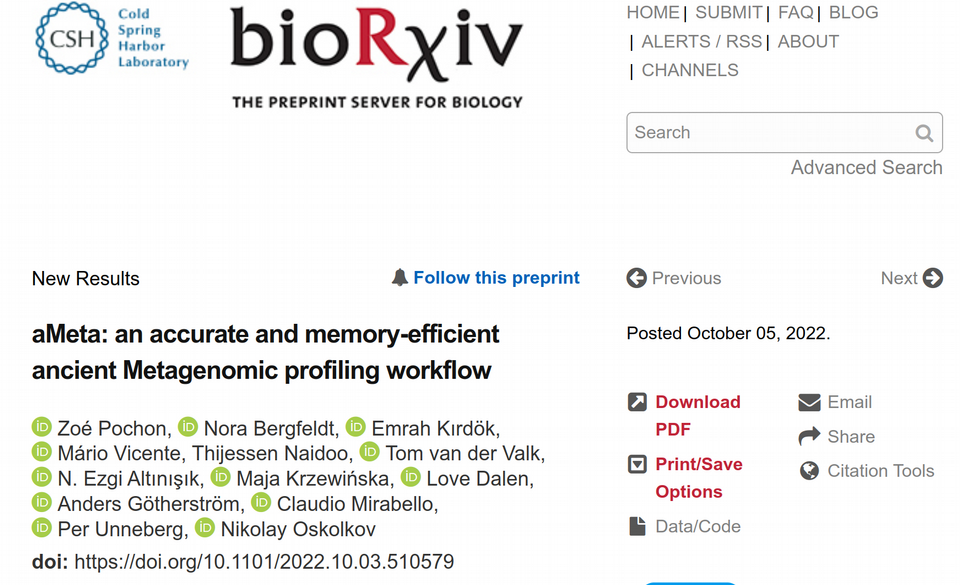
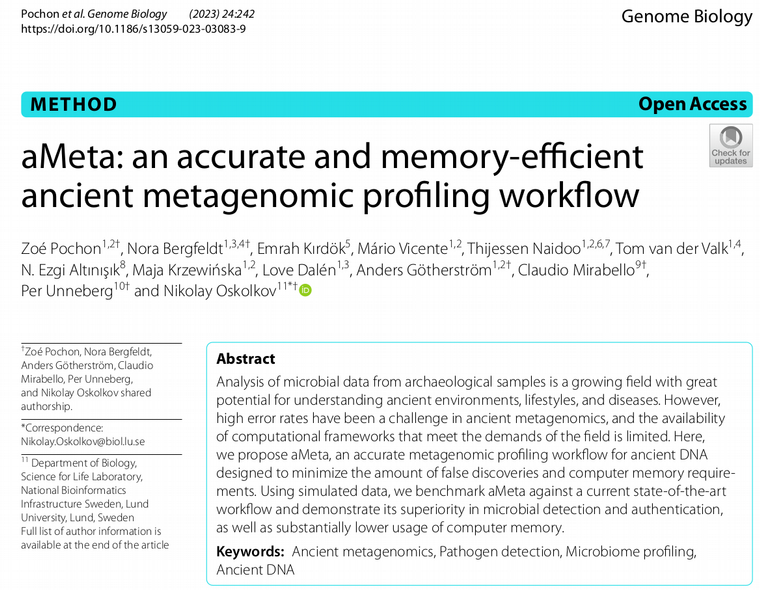
changed aMeta image

diff --git a/exercises.md b/exercises.md
@@ -40,8 +40,19 @@ git pull
 
 ## Getting the raw data
 
-Copy the raw sequencing data to your own `01_DATA` folder.
-Also copy the file `SAMPLES.txt`, which will be useful for running `for loop` and etc.
+Here, we will use 10 simulated with [gargammel](https://academic.oup.com/bioinformatics/article/33/4/577/2608651) ancient metagenomic samples from Pochon et al. 2023. The simulated data can be accessed via [https://doi.org/10.17044/scilifelab.21261405](https://doi.org/10.17044/scilifelab.21261405).
+
+![](images/aMeta.png)
+
+To download the simulated ancient metagenomic data you can use the following command line:
+
+```bash
+# DO NOT RUN THIS (ALREADY DONE)
+wget https://figshare.scilifelab.se/ndownloader/articles/21261405/versions/1 \
+&& unzip 1 && rm 1
+```
+
+Copy the raw sequencing data to your own `01_DATA` folder. Also copy the file `SAMPLES.txt`, which will be useful for running `for loop` and etc.
 
 ```bash
 
@@ -362,31 +373,6 @@ The chapter has the following outline:
   - Decontamination via negative controls (blanks)
   - Similarity to expected microbiome source (microbial source tracking)
 
-
-# Simulated ancient metagenomic data
-
-In this chapter, we will use 10 simulated with [gargammel](https://academic.oup.com/bioinformatics/article/33/4/577/2608651) ancient metagenomic samples from Pochon et al. 2023. The simulated data can be accessed via [https://doi.org/10.17044/scilifelab.21261405](https://doi.org/10.17044/scilifelab.21261405).
-
-![](images/aMeta.png)
-
-To download the simulated ancient metagenomic data please use the following command lines:
-
-```bash
-wget https://figshare.scilifelab.se/ndownloader/articles/21261405/versions/1 \
-&& unzip 1 && rm 1
-```
-The DNA reads were simulated with damage, sequencing errors and Illumina adapters, therefore one will have to trim the adapters first:
-
-```bash
-for i in $(ls *.fastq.gz)
-do
-sample_name=$(basename $i .fastq.gz)
-cutadapt -a AGATCGGAAGAG --minimum-length 30 -o ${sample_name}.trimmed.fastq.gz \ 
-${sample_name}.fastq.gz -j 20
-done
-```
-
-Now, after the basic data pre-processing has been done, we can proceed with validation, authentication and decontamination analyses.
 
 # Genomic hit confirmation
 
@@ -1117,12 +1103,11 @@ It is optimized for metagenomes, but also works well on generic single genome as
 
 Before you start the assembly, have a look at the [Megahit usage examples](https://github.com/voutcn/megahit?tab=readme-ov-file#usage), and the [Megahit publication](https://academic.oup.com/bioinformatics/article/31/10/1674/177884).  
 
-__What options do we need?__  
-We have only given the output directory in the script below; modify it as necessary and run `megahit`:  
+__What options do we need?__
+We have only given the output directory in the script below; modify it as necessary and run `megahit`:
 
 ```bash 
-cd ~/Physalia_EnvMetagenomics_2024
-conda activate envmetagenomics
+cd ~/Physalia_AncientMetagenomics_2025
 
 for sample in $(cat SAMPLES.txt); do
 megahit -r 04_HOST_REMOVAL/${sample}_unaligned_to_hg38.fastq.gz --out-dir 06_ASSEMBLY --min-contig-len 100 -t 4
@@ -1131,7 +1116,7 @@ done
 
 ### Assembly QC
 
-Now we are going to explore the assembled contigs. First, we will run QC for the assembled contigs and compute N50 value.  
+Now we are going to explore the assembled contigs. First, we will run QC for the assembled contigs and compute N50 value.
 
 ```bash
 mkdir 07_ASSEMBLY_QC
